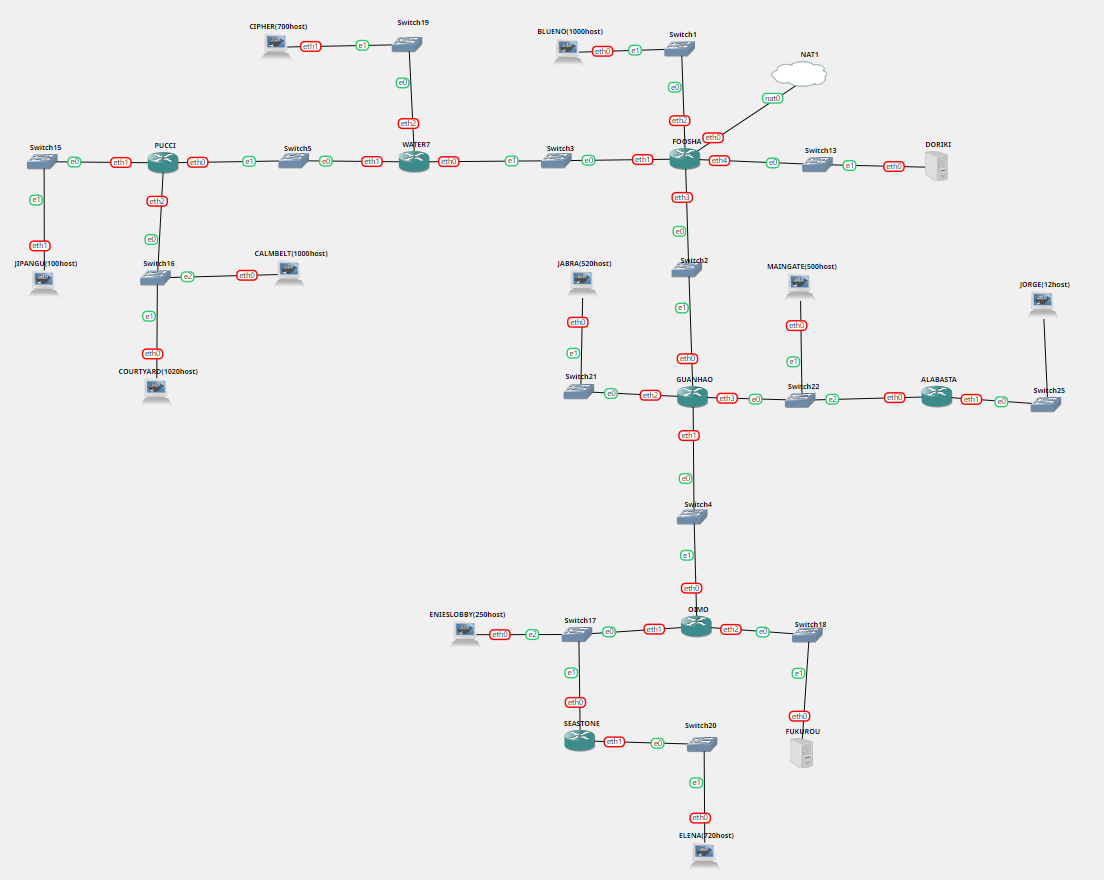
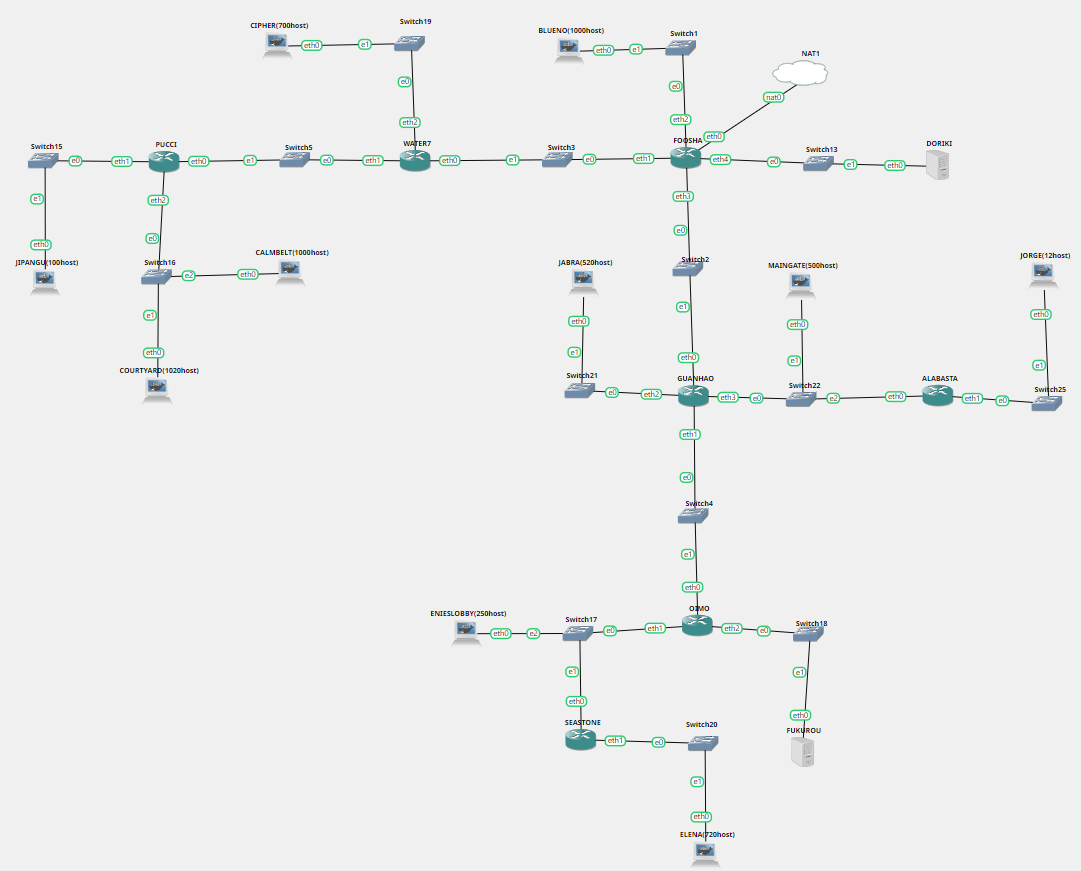
update README.md

Changed region(s): [[0.0, 0.0, 1.0, 1.0], [0.9158, 0.279, 0.9769, 0.372], [0.7021, 0.806, 0.7632, 0.899]]

diff --git a/README.md b/README.md
@@ -368,7 +368,7 @@ Setelah didapatkan IP pada setiap subnet paling bawah, maka dicari netmask dan b
             netmask 255.255.255.240
       
 
-- Omo
+- Oimo
       
       auto eth0
       iface eth0 inet static
@@ -420,7 +420,7 @@ Setelah didapatkan IP pada setiap subnet paling bawah, maka dicari netmask dan b
       auto eth0
       iface eth0 inet static
             address 10.37.32.2
-            netmask 255.255.255.0
+            netmask 255.255.252.0
             gateway 10.37.32.1
       
 
@@ -429,7 +429,7 @@ Setelah didapatkan IP pada setiap subnet paling bawah, maka dicari netmask dan b
       
       auto eth0
       iface eth0 inet static
-            address 10.37.0.2
+            address 10.37.3.235
             netmask 255.255.248.0
             gateway 10.37.0.1
 
@@ -438,7 +438,7 @@ Setelah didapatkan IP pada setiap subnet paling bawah, maka dicari netmask dan b
       
       auto eth0
       iface eth0 inet static
-            address 10.37.0.3
+            address 10.37.0.2
             netmask 255.255.248.0
             gateway 10.37.0.1
       
@@ -468,7 +468,7 @@ Setelah didapatkan IP pada setiap subnet paling bawah, maka dicari netmask dan b
       
       auto eth0
       iface eth0 inet static
-            address 10.36.4.2
+            address 10.36.4.3
             netmask 255.255.255.0
             gateway 10.36.4.1
       
@@ -573,29 +573,6 @@ Setelah didapatkan IP pada setiap subnet paling bawah, maka dicari netmask dan b
 Pada router **Foosha** jalankan perintah berikut ini,
       
       iptables -t nat -A POSTROUTING -o eth0 -j MASQUERADE -s 10.36.0.0/15
-
-#### Konfigurasi Router
-
-Ditambahkan jangkauan ip yang melewati masing-masing router berdasarkan perhitungan CIDR.
-
-- Guanhao
-```
-iptables -t nat -A POSTROUTING -o eth0 -j MASQUERADE -s 10.36.0.0/17
-```
-
-- Oimo
-```
-iptables -t nat -A POSTROUTING -o eth0 -j MASQUERADE -s 10.36.0.0/19
-```
-
-- Seastone
-```
-iptables -t nat -A POSTROUTING -o eth0 -j MASQUERADE -s 10.36.0.0/22
-```
-
-- Water7
-- Pucci
-
 
 #### Setting resolv.conf
 
